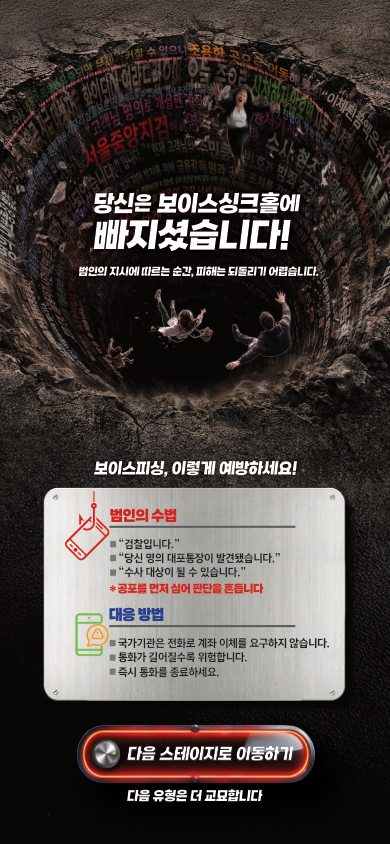
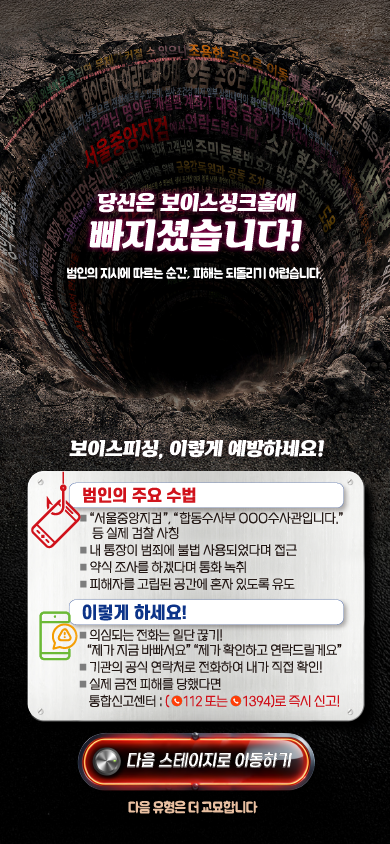
수정

diff --git a/index.html b/index.html
@@ -505,41 +505,6 @@
             aria-hidden="true"
             draggable="false"
           />
-          <img
-            class="fail-mo-layer fail-mo-back"
-            src="image/step1/fail/item-mobile/예방안내배경.png"
-            alt=""
-            aria-hidden="true"
-            draggable="false"
-          />
-          <img
-            class="fail-mo-layer fail-mo-emoji-bar1"
-            src="image/step1/fail/item-mobile/이모지+하얀바 1.png"
-            alt=""
-            aria-hidden="true"
-            draggable="false"
-          />
-          <img
-            class="fail-mo-layer fail-mo-emoji-bar2"
-            src="image/step1/fail/item-mobile/이모지+하얀바 2.png"
-            alt=""
-            aria-hidden="true"
-            draggable="false"
-          />
-          <img
-            class="fail-mo-layer fail-mo-text"
-            src="image/step1/fail/item-mobile/스마트폰용 랜딩페이지 실패스테이지1.png"
-            alt=""
-            aria-hidden="true"
-            draggable="false"
-          />
-          <img
-            class="fail-mo-layer fail-mo-button"
-            src="image/step1/fail/item-mobile/다음스테이지이동하기버튼.png"
-            alt=""
-            aria-hidden="true"
-            draggable="false"
-          />
           <button
             class="btn-pos btn-next"
             id="btn-step1-fail-next"
@@ -814,41 +779,6 @@
           <img
             class="fail-mo-layer fail-mo-rocks"
             src="image/step2/fail/item-mobile/추락돌들.png"
-            alt=""
-            aria-hidden="true"
-            draggable="false"
-          />
-          <img
-            class="fail-mo-layer fail-mo-back"
-            src="image/step2/fail/item-mobile/예방안내배경.png"
-            alt=""
-            aria-hidden="true"
-            draggable="false"
-          />
-          <img
-            class="fail-mo-layer fail-mo-emoji-bar1"
-            src="image/step2/fail/item-mobile/이모지+하얀바 1.png"
-            alt=""
-            aria-hidden="true"
-            draggable="false"
-          />
-          <img
-            class="fail-mo-layer fail-mo-emoji-bar2"
-            src="image/step2/fail/item-mobile/이모지+하얀바 2.png"
-            alt=""
-            aria-hidden="true"
-            draggable="false"
-          />
-          <img
-            class="fail-mo-layer fail-mo-text"
-            src="image/step2/fail/item-mobile/스마트폰용 랜딩페이지 실패스테이지2.png"
-            alt=""
-            aria-hidden="true"
-            draggable="false"
-          />
-          <img
-            class="fail-mo-layer fail-mo-button"
-            src="image/step2/fail/item-mobile/다음스테이지이동하기버튼.png"
             alt=""
             aria-hidden="true"
             draggable="false"
@@ -1131,41 +1061,8 @@
             aria-hidden="true"
             draggable="false"
           />
-          <img
-            class="fail-mo-layer fail-mo-back"
-            src="image/step3/fail/item-mobile/스테이지3 실패 스틸박스.png"
-            alt=""
-            aria-hidden="true"
-            draggable="false"
-          />
-          <img
-            class="fail-mo-layer fail-mo-emoji-bar1"
-            src="image/step3/fail/item-mobile/이모지+하얀바 1.png"
-            alt=""
-            aria-hidden="true"
-            draggable="false"
-          />
-          <img
-            class="fail-mo-layer fail-mo-emoji-bar2"
-            src="image/step3/fail/item-mobile/이모지+하얀바 2.png"
-            alt=""
-            aria-hidden="true"
-            draggable="false"
-          />
-          <img
-            class="fail-mo-layer fail-mo-text"
-            src="image/step3/fail/item-mobile/스마트폰용 랜딩페이지 실패스테이지3.png"
-            alt=""
-            aria-hidden="true"
-            draggable="false"
-          />
-          <img
-            class="fail-mo-layer fail-mo-button"
-            src="image/step3/fail/item-mobile/다음스테이지이동하기버튼.png"
-            alt=""
-            aria-hidden="true"
-            draggable="false"
-          />
+     
+      
           <button
             class="btn-pos btn-next"
             id="btn-step3-fail-next"

diff --git a/css/style.css b/css/style.css
@@ -1359,9 +1359,18 @@ img {
     -webkit-user-drag: none;
   }
 
-  /* 배경 — 어두운 구멍 (390×844, full canvas) */
+  /* 배경 — 낙하 전 표시, 낙하 완료 후 mo.png로 페이드아웃 */
   .fail-mo-bg {
     z-index: 1;
+    height: 100%;
+    object-fit: cover;
+    opacity: 1;
+  }
+  #screen-step1-fail.active .fail-mo-bg,
+  #screen-step2-fail.active .fail-mo-bg,
+  #screen-step3-fail.active .fail-mo-bg {
+    animation: fail-bg-fadeout 0.1s ease forwards;
+    animation-delay: 5.1s;
   }
 
   /* 추락사람.png (540×515) — 캔버스보다 넓으므로 width:100% 로 자동 축소
@@ -1622,6 +1631,12 @@ img {
   #screen-step2-fail #btn-step2-fail-next:active {
     opacity: 0.7;
   }
+}
+
+/* ── 실패 배경 페이드아웃 ── */
+@keyframes fail-bg-fadeout {
+  0%   { opacity: 1; }
+  100% { opacity: 0; }
 }
 
 /* ── 낙하 키프레임 ── */
@@ -2015,6 +2030,8 @@ img {
   /* 배경 */
   #screen-step3-fail .fail-mo-bg {
     z-index: 1;
+    height: 100%;
+    object-fit: cover;
   }
 
   /* 추락 사람 */
